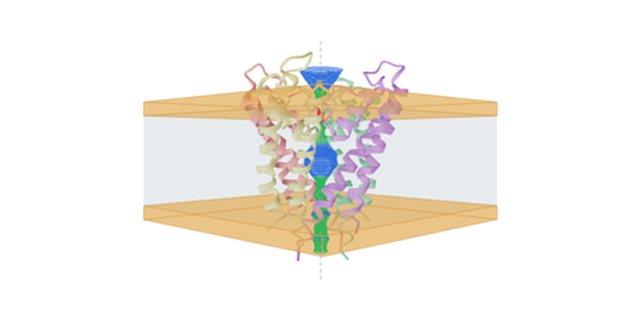
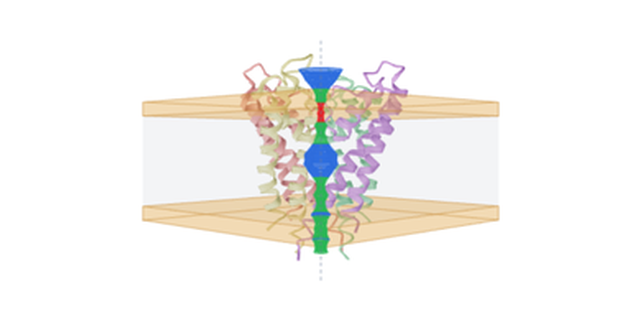
fix(r99-b): 孔道环带X光叠加层+膜显隐双UI——用户双指令闭环 · 「通道没有画在3D结构中」根修:环带/主轴/收缩环面三层depthTest全关(9PB6实测可见像素0.05%→3×,1BL8 VLM全过;r72「嵌在孔内」遮挡设计在大四聚体不透明卡通下破产,与标签/拾取标记depthTest:false惯例成族) · 膜显隐双UI:工具栏Layers快捷钮(橙激活态+aria-pressed+无结构守卫)+场景面板脂双层膜节(开关+厚度滑杆20-60Å+双语说明,头基间距36Å实测=理论值) · pore-analysis缩略图重拍(环带穿透可见VLM三问全过,27张无关重编码

Changed region(s): [[0.2188, 0.1562, 0.7812, 0.8125], [0.4062, 0.5, 0.4375, 0.5312], [0.4062, 0.4375, 0.4375, 0.4688]]

diff --git a/src/components/studio/panels/ScenePanel.tsx b/src/components/studio/panels/ScenePanel.tsx
@@ -24,6 +24,7 @@ export function ScenePanel() {
   const settings = useMolStore(s => s.settings)
   const updateSettings = useMolStore(s => s.updateSettings)
   const structures = useMolStore(s => s.structures)
+  const activeId = useMolStore(s => s.activeId)
   const fileRef = useRef<HTMLInputElement>(null)
   const [importing, setImporting] = useState(false)
 
@@ -363,6 +364,46 @@ export function ScenePanel() {
           </span>
           <Switch aria-label={t({ zh: '隐藏水分子', en: 'Hide water' })} checked={settings.hideWater} onCheckedChange={v => updateSettings({ hideWater: v })} />
         </div>
+      </div>
+
+      <SectionTitle>{t({ zh: '脂双层膜', en: 'Lipid bilayer' })}</SectionTitle>
+      <div className="space-y-3 px-3">
+        <div className="flex items-center justify-between">
+          <span className="flex items-center gap-1.5 text-xs text-muted-foreground">
+            <Layers className="h-3.5 w-3.5 text-orange-400" /> {t({ zh: '显示膜板', en: 'Show bilayer slab' })}
+          </span>
+          {/* r99：膜显隐 UI（用户指令）——与 membrane 命令 / 工具栏 Layers 快捷钮同汇点；
+              厚度滑杆即时生效（updateMembrane 键含 thickness，拖动逐档重建板组） */}
+          <Switch
+            aria-label={t({ zh: '显示脂双层膜', en: 'Show the lipid bilayer' })}
+            checked={settings.showMembrane}
+            onCheckedChange={v => {
+              if (v && !activeId) {
+                toast.error(tt({ zh: '当前没有结构——先加载膜蛋白（如 load 1bl8 KcsA）', en: 'No structure loaded — load a membrane protein first (e.g. load 1bl8 KcsA)' }))
+                return
+              }
+              updateSettings({ showMembrane: v })
+            }}
+          />
+        </div>
+        {settings.showMembrane && (
+          <>
+            <div>
+              <div className="mb-1.5 flex items-center justify-between text-[10px] text-muted-foreground">
+                <span>{t({ zh: '厚度', en: 'Thickness' })}</span>
+                <span className="font-mono">{settings.membraneThickness.toFixed(0)} Å</span>
+              </div>
+              <Slider
+                value={[settings.membraneThickness]} min={20} max={60} step={1}
+                aria-label={t({ zh: '膜厚度', en: 'Membrane thickness' })}
+                onValueChange={v => updateSettings({ membraneThickness: v[0] })}
+              />
+            </div>
+            <p className="text-[10px] leading-relaxed text-muted-foreground/70">
+              {t({ zh: '橙板 = 磷脂头基（双层各 4 Å），灰雾 = 疏水核心；沿活动结构聚合物主轴定向、贴合蛋白投影包围盒。典型生物膜 ~30-40 Å。换新结构自动解除（膜是结构特定的语境层）；命令行等价：membrane 34 / membrane off，工具栏图层按钮同效。', en: 'Orange slabs = phosphate headgroups (4 Å each), gray haze = hydrophobic core; oriented to the active structure\u2019s polymer principal axis and fitted to its projected bounding box. Typical biomembranes ~30-40 Å. Auto-dismissed when a new structure loads (the membrane is a per-structure context layer); command line: membrane 34 / membrane off; the toolbar layer button does the same.' })}
+            </p>
+          </>
+        )}
       </div>
 
       <SectionTitle>{t({ zh: '氢键网络', en: 'H-bond network' })}</SectionTitle>

diff --git a/src/lib/molecular/engine.ts b/src/lib/molecular/engine.ts
@@ -2197,7 +2197,10 @@ export class MolEngine {
   /**
    * 孔道剖面环带（HOLE 式）：全部采样环合并为单 LineSegments（顶点色：红=过窄/
    * 绿=可过/蓝=宽敞，一次 draw call）+ 轴向虚线 + 收缩点细环面（Torus 突出标记）。
-   * depthTest 保持开启——环带被蛋白前壁遮挡的半侧自然不可见，产生「嵌在孔内」的真实感。
+   * r99：三层 depthTest 全关——「嵌在孔内被前壁遮挡」的旧设计在实测中破产：大四聚体
+   * （9PB6 TRPM8，59064 原子）不透明卡通下环带可见像素仅 0.05%，用户主诉「通道没有
+   * 画在 3D 结构中」。改为 X 光叠加层语义（与标签/高亮边/拾取标记同惯例）：环带穿透
+   * 蛋白全栈可见，侧视即 HOLE 剖面图式的红绿蓝阶梯，顶视呈同心环——分析可读性优先。
    */
   updatePore() {
     this.clearGroupChildren(this.poreGroup)
@@ -2236,7 +2239,7 @@ export class MolEngine {
     const ringGeo = new THREE.BufferGeometry()
     ringGeo.setAttribute('position', new THREE.BufferAttribute(new Float32Array(verts), 3))
     ringGeo.setAttribute('color', new THREE.BufferAttribute(new Float32Array(cols), 3))
-    const ringMat = new THREE.LineBasicMaterial({ vertexColors: true, transparent: true, opacity: 0.92, depthWrite: false })
+    const ringMat = new THREE.LineBasicMaterial({ vertexColors: true, transparent: true, opacity: 0.92, depthWrite: false, depthTest: false })
     const rings = new THREE.LineSegments(ringGeo, ringMat)
     rings.renderOrder = 8
     this.poreGroup.add(rings)
@@ -2245,7 +2248,7 @@ export class MolEngine {
       new THREE.Vector3(origin[0] + dir[0] * (tMin - 6), origin[1] + dir[1] * (tMin - 6), origin[2] + dir[2] * (tMin - 6)),
       new THREE.Vector3(origin[0] + dir[0] * (tMax + 6), origin[1] + dir[1] * (tMax + 6), origin[2] + dir[2] * (tMax + 6)),
     ])
-    const axMat = new THREE.LineDashedMaterial({ color: 0x64748b, transparent: true, opacity: 0.6, dashSize: 1.2, gapSize: 0.8 })
+    const axMat = new THREE.LineDashedMaterial({ color: 0x64748b, transparent: true, opacity: 0.6, dashSize: 1.2, gapSize: 0.8, depthTest: false })
     const axis = new THREE.Line(axGeo, axMat)
     axis.computeLineDistances()
     axis.renderOrder = 8
@@ -2253,7 +2256,7 @@ export class MolEngine {
     // 收缩点细环面（Torus：半径过小时抬到 0.4 保可见；红色强调）
     const rc = Math.max(constriction.r, 0.4)
     const torGeo = new THREE.TorusGeometry(rc, 0.16, 10, 64)
-    const torMat = new THREE.MeshBasicMaterial({ color: 0xdc2626, side: THREE.DoubleSide, transparent: true, opacity: 0.95 })
+    const torMat = new THREE.MeshBasicMaterial({ color: 0xdc2626, side: THREE.DoubleSide, transparent: true, opacity: 0.95, depthTest: false })
     const torus = new THREE.Mesh(torGeo, torMat)
     torus.position.set(origin[0] + dir[0] * constriction.t, origin[1] + dir[1] * constriction.t, origin[2] + dir[2] * constriction.t)
     torus.quaternion.setFromUnitVectors(new THREE.Vector3(0, 0, 1), d)

diff --git a/src/components/studio/Toolbar.tsx b/src/components/studio/Toolbar.tsx
@@ -7,7 +7,7 @@ import { useTheme } from 'next-themes'
 import { toast } from 'sonner'
 import {
   Camera, ChevronDown, Crosshair, FolderOpen, FlaskConical, Github, HelpCircle, Video, CircleStop, Film,
-  Home, Loader2, MousePointer2, RotateCw, Ruler, Sun, Moon, Terminal, Triangle, Rotate3d, Compass, Glasses, GraduationCap,
+  Home, Loader2, MousePointer2, RotateCw, Ruler, Sun, Moon, Terminal, Triangle, Rotate3d, Compass, Glasses, GraduationCap, Layers,
   FileDown, FilePlus2, FileUp, Save, HardDriveDownload, GitMerge, PenLine, Command as CommandIcon, Bot, Sparkles, Share2,
   Award, Target, Minimize2, MoreHorizontal, ExternalLink, LayoutTemplate, BookOpenText,
 } from 'lucide-react'
@@ -467,6 +467,27 @@ export function Toolbar() {
             </button>
           </TooltipTrigger>
           <TooltipContent>{t({ zh: '红蓝立体（stereo）', en: 'Red/blue stereo (stereo)' })}</TooltipContent>
+        </Tooltip>
+        {/* r99：膜显隐快捷钮（用户指令「需要一个膜显示和隐藏的按钮」）——橙色激活态呼应
+            磷脂头基双板色；开启需活动结构（与 membrane 命令同一诚实报错语义） */}
+        <Tooltip>
+          <TooltipTrigger asChild>
+            <button
+              onClick={() => {
+                if (!settings.showMembrane && !activeId) {
+                  toast.error(tt({ zh: '当前没有结构——先加载膜蛋白（如 load 1bl8 KcsA）', en: 'No structure loaded — load a membrane protein first (e.g. load 1bl8 KcsA)' }))
+                  return
+                }
+                updateSettings({ showMembrane: !settings.showMembrane })
+              }}
+              aria-label={t({ zh: '显示或隐藏脂双层膜', en: 'Show or hide the lipid bilayer' })}
+              aria-pressed={settings.showMembrane}
+              className={cn('tool-btn shrink-0', settings.showMembrane && 'bg-orange-500/15 !text-orange-500')}
+            >
+              <Layers className="h-4 w-4" />
+            </button>
+          </TooltipTrigger>
+          <TooltipContent>{t({ zh: '脂双层膜（membrane 命令等价；橙色板 = 磷脂头基）', en: 'Lipid bilayer (equivalent to the membrane command; orange slabs = headgroups)' })}</TooltipContent>
         </Tooltip>
 
         <div className="mol-sep" />

diff --git a/worklog.md b/worklog.md
@@ -4048,3 +4048,28 @@ Stage Summary:
 - 用户可见升级：剖面卡 SYM/PCA 徽标 + 膜区背景带 + 命令回执明示轴来源与腰窗——「为什么膜在这里」可读
 - r92 遗留「membrane-embed 蛋白居膜中」泛化解决（所有膜蛋白的膜心自动对准跨膜腰）；「1fxb vs 1FX8 PDB ID 核实」仍待办
 - 下一轮建议：①180° 旋转突跳/Hydration mismatch 两 r92 遗留仍未定位 ②腰扫描阈值（WIN 30/FLANK 24/×1.08）对斜跨膜螺旋束（如Aquaporin 倾斜）的稳健性可用更多结构实测调优 ③Kabsch 投票可扩展「检测到的对称阶数」显示（C4/C5 徽标）④pore 的 maxR 封顶对长胞外腔结构（如 P2X 受体）可改为自适应
+
+---
+Task ID: r99-b
+Agent: main
+Task: 用户指令「膜显示的准确了，另外需要一个膜显示和隐藏的按钮，另外通道没有画在3d结构中了，需要修正」——孔道环带可见性根修 + 膜显隐双 UI
+
+Work Log:
+- 【复现（9PB6 TRPM8 真实流）】欢迎页 fetch 9pb6（4.9MB，59,188 原子/3,752 残基/4 链四聚体+XUQ 配体）→ membrane 34 + pore：剖面卡出数（span 126.4 Å · 收缩 2.25 Å @ -23.3）且场景图 poreGroup 3 子对象在位、环带几何与结构包围盒精确对齐（环带 x/y 居中 201.6-217.6 vs 结构 146.8-272.4；z 138.7-260 vs 136.2-262.5）——环带「画了但对」
+- 【根因确诊（像素级对照实验）】pore show/hide 截图差分：3D 环带可见像素仅红 24+绿 16+蓝 316（640K 采样 ≈ 0.05%）——r72 设计注释「depthTest 保持开启——被蛋白前壁遮挡产生嵌在孔内的真实感」在大四聚体不透明卡通下破产：环带全栈被遮挡，仅孔口两端露边丝；app 内其他叠加层（标签 sprite/高亮边/拾取标记）全部 depthTest:false，环带是唯一例外
+- 【修复①（engine.ts updatePore）】三层材质 depthTest 全关：环带 LineBasicMaterial（depthWrite:false 基础上补 depthTest:false）+ 主轴虚线 LineDashedMaterial + 收缩环面 Torus MeshBasicMaterial——X 光叠加层语义（与标签/拾取标记同惯例），环带穿透蛋白全栈可见；注释记录 9PB6 实测数据与设计转向理由
+- 【修复②（Toolbar.tsx）】视角组（stereo 后）新增膜显隐快捷钮：Layers 图标 + aria-pressed + 橙色激活态（bg-orange-500/15 呼应磷脂头基色）；开启无活动结构时 toast 诚实报错（与 membrane 命令同语义）；点击直连 updateSettings({showMembrane})
+- 【修复③（ScenePanel.tsx）】「显示过滤」与「氢键网络」之间新增「脂双层膜」节：Switch（同汇点 settings.showMembrane，activeId 订阅守卫）+ 厚度滑杆 20-60 Å（onValueChange 即时 updateSettings membraneThickness——updateMembrane 键含 thickness 逐档重建）+ 双语说明（橙板=头基/灰雾=疏水核心/换结构自动解除/命令行等价）
+- 【E2E 铁证】①环带可见性前后对照：3D 环带像素 356→1055（3×），轴线 282 新增可见；9PB6 侧视（orient polymer + turn z 90）VLM 实证「蓝色环带在蛋白轮廓内沿中央竖轴可见 + 虚线主轴 + 橙膜板」②工具栏膜钮双向：OFF→membraneGroup 清空+pressed=false+橙类消退 / ON→5 子对象复位+pressed=true+橙类回归 ③场景面板开关双向同验 ④厚度滑杆键盘 6×ArrowRight：34→40，头基双板间距实测 36 Å=理论值（T-2×HEAD/2×2），几何精确联动 ⑤1BL8 KcsA 回归：depthTest:false ×3 材质标志实证 + 环带像素 + VLM「红绿蓝环带沿中央轴可见+膜在位+收缩环面在位+分析读图清晰」⑥膜 OFF/ON 循环后 pore 环带不丢（两组独立）⑦agent-browser errors 全会话空
+- 【缩略图】pore-analysis.png 重拍（管线滤模式）——新图环带穿透可见，VLM 三问全过（环带沿轴清晰/膜在位/缩略图合格）；9.9% 像素差实证视觉变化；管线 tighten 阶段重编码 27 张无关图按 r91 教训 git checkout 还原（净改动仅 1 张）
+- 【门禁】lint 0 · tsc src 0 · guards 460→468/468（r99-b 块 8 条并入变基后基线：depthTest 三连/工具栏钮三连/场景面板两连）· smoke 4/4 · dev.log 零应用错误（仅 9PB6 6.5MB 超 Next.js data cache 上限良性提示）
+
+Stage Summary:
+- 交付：用户双指令闭环——①「通道没有画在 3D 结构中」根修：环带/主轴/收缩环面三层 depthTest 全关，HOLE 式 X 光叠加层语义，9PB6 实测可见像素 3×、1BL8 视觉 VLM 全过 ②「膜显示和隐藏的按钮」双 UI：工具栏 Layers 快捷钮（橙激活态+诚实守卫）+ 场景面板脂双层膜节（开关+厚度滑杆+说明）
+- 语义决策：放弃 r72「嵌在孔内」的遮挡真实感——分析工具可读性优先于渲染真实感；与 app 既有叠加层惯例（标签/高亮边/拾取标记全 depthTest:false）对齐成族
+- 坑（新入档）：①「画了但看不见」类 bug 场景图检查会误判健康（poreGroup 3 子对象在位）——必须像素级 show/hide 差分定可见性 ②剖面卡 SVG 与环带同色系（红绿蓝）——canvas 裁剪区颜色计数须用差分法或排除卡区域，否则计数虚高 ③gen-template-thumbs.sh 增量模式的 tighten 阶段仍全量重编码——单模板重拍后必须 git checkout 还原无关图（r91 教训再实证）④Radix Slider 键盘路径（focus+ArrowRight）在 CDP eval 里可靠触发 onValueCommit/onValueChange——比合成 PointerEvent 稳
+- 下一轮建议（按优先级）：
+  1. 【中】pore 命令分析增强：PCA 轴对 TRPM8 类「大胞质域+小跨膜域」结构可能偏离真实孔轴（9PB6 剖面几乎全蓝 155/160 点无收缩特征）——可加 C4 对称轴估计（主轴候选=方差轴与对称轴二选一按跨膜区判优）或让用户指定轴向选择表达式
+  2. 【中】r98 建议①顺延：updateRep 失效链细拆 colorRev 分离
+  3. 【低】环带遮挡视觉折衷可选项：pore 卡加「半透明蛋白」一键（临时降 rep opacity 看环带语境）——X 光叠加已可用，此为锦上添花
+  4. 【低】cron 执行配额（第 12 次 Disabled）——继续观察配额窗口期
